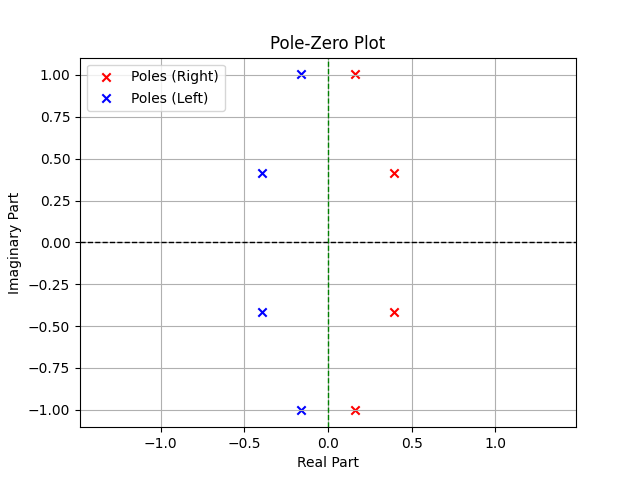
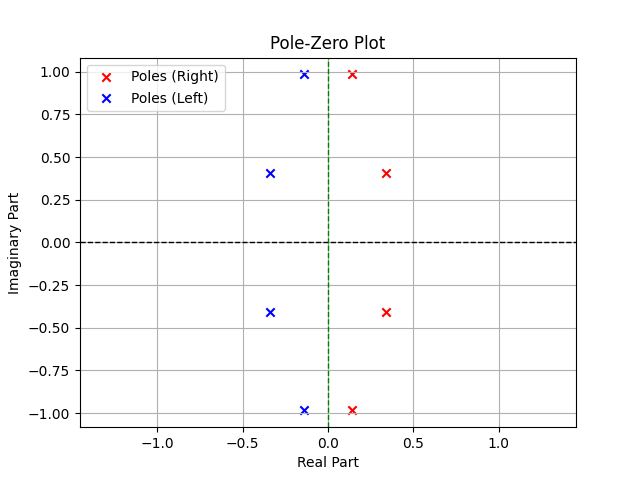
Add files via upload

diff --git a/filter/tables/sk_tab.tex b/filter/tables/sk_tab.tex
@@ -5,14 +5,14 @@
     \begin{tabular}{|c|c|c|}
     \hline
     \textbf{$Pole$} & \textbf{$Value$} \\ \hline
-    $s_1$ &-0.3913 - j0.4156\\ \hline
-    $s_2$ &-0.3913 + j0.4156 \\ \hline
-    $s_3$ &-0.1621 + j1.0033\\ \hline
-    $s_4$ &0.1621 + j1.0033\\ \hline
-    $s_5$ &0.3913 + j0.4156\\ \hline
-    $s_6$ &0.3913 - j0.4156\\ \hline
-    $s_7$ &0.1621 - j1.0033  \\ \hline
-    $s_8$ &-0.1621 - j1.0033\\ \hline
+    $s_1$ &0.1411 + j0.9847 \\ \hline
+    $s_2$ &-0.3407 - j0.4079 \\ \hline
+    $s_3$ &-0.3407 - j0.4079  \\ \hline
+    $s_4$ &-0.1411 + j0.9847 \\ \hline
+    $s_5$ &-0.1411 - j0.9847\\ \hline
+    $s_6$ &0.3407 + j0.4079 \\ \hline
+    $s_7$ &0.3407 + j0.4079  \\ \hline
+    $s_8$ & +0.1411 - j1.9847 \\ \hline
     \end{tabular}}
     \caption{Values of $s_k$}
     \label{tab:values poles sk}
